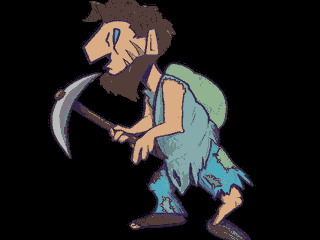
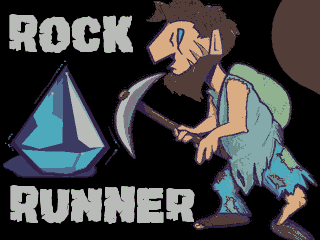
polish and title screen

diff --git a/src/convert_images.py b/src/convert_images.py
@@ -148,6 +148,7 @@ def make_catalog(parts: list[TilesPart]) -> None:
     iseatable = []
     object_ids = {}
     with open("src/objects.p8", "wt") as out:
+        out.write("; NOTE: this code is automatically generated. Do not edit!\n")
         out.write("objects {\n")
         for part in parts:
             section = config[part.name]

diff --git a/README.md b/README.md
@@ -1,13 +1,23 @@
-Boulder (working title)
-=======================
+Rock Runner
+===========
 
-A Boulder Dash® clone.
+A Boulder Dash® clone for the Commander X16.
 
 Original Boulder Dash® in 1984 by First Star Software, created by Peter Liepa and Chris Gray.
 Current copyright by BBG Entertainment GmbH.
 
 
 Modern tile set is from MIT-licensed GDash and is based on Boulder Rush by Michael Kowalski / Miksoft. See below for links.
+
+
+TODO
+----
+- add a background sprite layer with subtle rocks patterns?
+- touch up the tileset to real 16x16 graphics? starting with diamonds and boulders then Rockford then the rest
+- selectable tilesets?  also add the real c64 retro tileset with adjustable palette?
+- fix the remaining TODO's in the code such as cave progression and selectable difficulty level
+- add ability to load BDCFF caves from disk files.
+- check with orig game that stuff falling into an expired magicwall simply disappears (cave T)
 
 
 Development Resources
